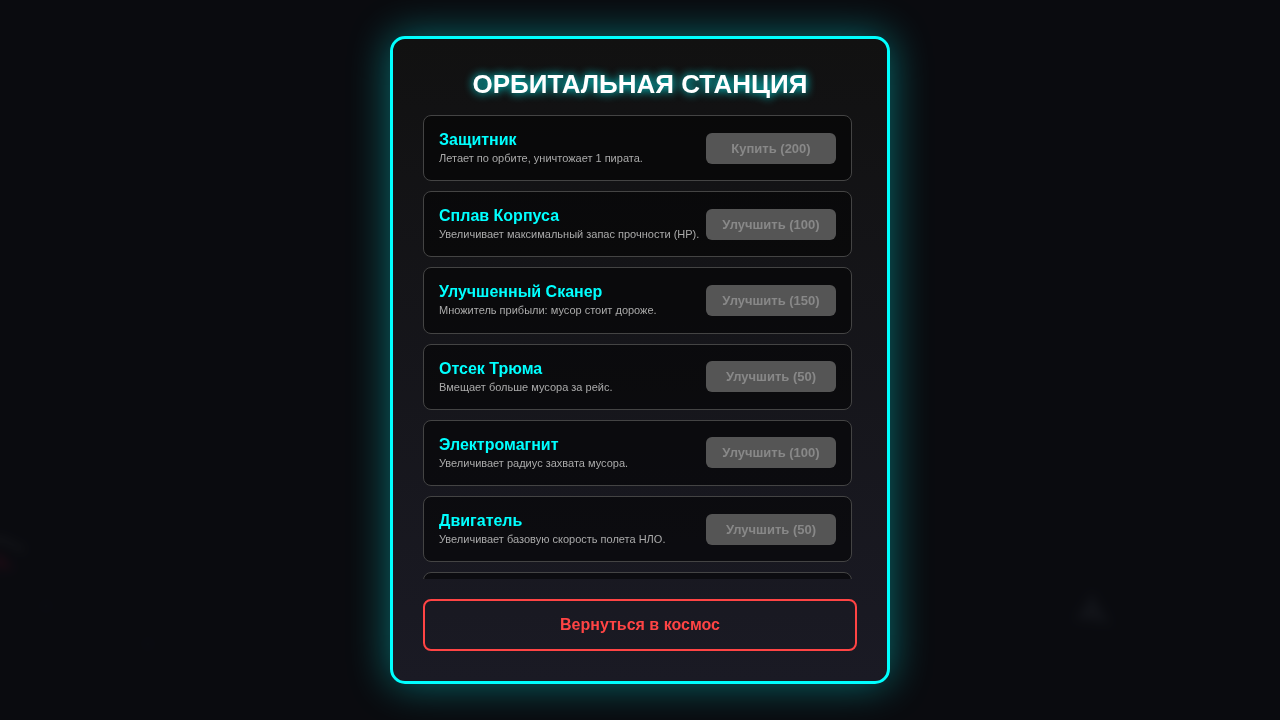
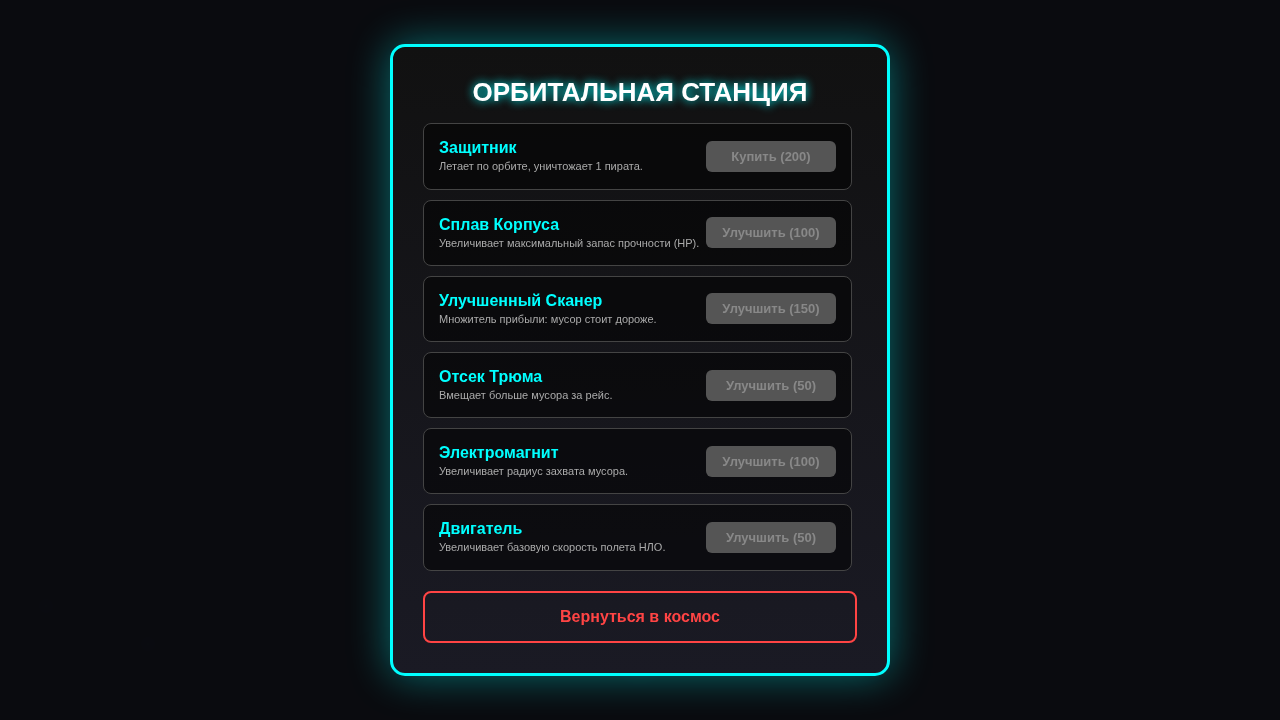
fix: string interpolation for earned coins when returning to base
Replaced `+{earned}` with `+${earned}` inside showFloatingText in game.js to correctly render the number of coins earned.

Changed region(s): [[0.2812, 0.1833, 0.7188, 0.9472], [0.3125, 0.0306, 0.6875, 0.1528]]

diff --git a/game.js b/game.js
@@ -33,6 +33,11 @@ const ui = {
 
     btnPlay: document.getElementById('btnPlay'), sectorGrid: document.getElementById('sectorGrid'),
     btnBackToMain: document.getElementById('btnBackToMain'), btnMuteMenu: document.getElementById('btnMuteMenu'),
+
+    btnHangar: document.getElementById('btnHangar'), btnHowToPlay: document.getElementById('btnHowToPlay'),
+    hangarMenu: document.getElementById('hangarMenu'), howToPlayMenu: document.getElementById('howToPlayMenu'),
+    btnBackFromHangar: document.getElementById('btnBackFromHangar'), btnBackFromHowToPlay: document.getElementById('btnBackFromHowToPlay'),
+    shipGrid: document.getElementById('shipGrid'), hangarBank: document.getElementById('hangarBank'),
     btnMuteHud: document.getElementById('btnMuteHud'),
 
     level: document.getElementById('level'), progress: document.getElementById('progress'),
@@ -51,9 +56,23 @@ const ui = {
 };
 
 // --- СОСТОЯНИЕ ИГРЫ (ОБЛАКО) ---
+const shipsData = [
+    { id: 0, name: "Новичок", cost: 0, hpBase: 100, speedBase: 4, capBase: 10, magnetBase: 100, profitMultBase: 1.0, color: "#aaa" },
+    { id: 1, name: "Разведчик", cost: 500, hpBase: 120, speedBase: 4.5, capBase: 12, magnetBase: 110, profitMultBase: 1.1, color: "#8df" },
+    { id: 2, name: "Грузовик", cost: 1200, hpBase: 150, speedBase: 3.8, capBase: 25, magnetBase: 120, profitMultBase: 1.2, color: "#d84" },
+    { id: 3, name: "Истребитель", cost: 2500, hpBase: 200, speedBase: 5.5, capBase: 15, magnetBase: 130, profitMultBase: 1.3, color: "#f44" },
+    { id: 4, name: "Стервятник", cost: 5000, hpBase: 250, speedBase: 4.5, capBase: 30, magnetBase: 150, profitMultBase: 1.5, color: "#d4f" },
+    { id: 5, name: "Корвет", cost: 9000, hpBase: 350, speedBase: 5.0, capBase: 40, magnetBase: 170, profitMultBase: 1.7, color: "#4f4" },
+    { id: 6, name: "Фрегат", cost: 15000, hpBase: 500, speedBase: 4.8, capBase: 60, magnetBase: 200, profitMultBase: 2.0, color: "#48f" },
+    { id: 7, name: "Эсминец", cost: 25000, hpBase: 750, speedBase: 5.5, capBase: 80, magnetBase: 250, profitMultBase: 2.5, color: "#f84" },
+    { id: 8, name: "Крейсер", cost: 40000, hpBase: 1000, speedBase: 5.2, capBase: 120, magnetBase: 300, profitMultBase: 3.0, color: "#f48" },
+    { id: 9, name: "Джаггернаут", cost: 75000, hpBase: 2000, speedBase: 6.0, capBase: 200, magnetBase: 400, profitMultBase: 5.0, color: "gold" }
+];
+
 let state = {
     coins: 0, metaCoins: 0, hasAdvancedShip: false, maxSector: 1, tutorialCompleted: false, muted: false,
     hpLevel: 1, profitLevel: 1, speedLevel: 1, capacityLevel: 1, magnetLevel: 1,
+    ownedShips: [0], currentShipIndex: 0
 };
 
 // --- ТЕКУЩАЯ СЕССИЯ ---
@@ -67,11 +86,11 @@ let ys = null; let playerSDK = null;
 // --- ИГРОВЫЕ ОБЪЕКТЫ ---
 const player = {
     x: 0, y: 0, radius: 20, inventory: 0, hp: 100, invulnerableTime: 0,
-    get maxHp() { return (state.hasAdvancedShip ? 200 : 100) + (state.hpLevel - 1) * 25; },
-    get speed() { return (state.hasAdvancedShip ? 5 : 4) + (state.speedLevel - 1); },
-    get maxCapacity() { return (state.hasAdvancedShip ? 20 : 10) + (state.capacityLevel - 1) * 5; },
-    get magnetRadius() { return 100 + (state.magnetLevel - 1) * 30; },
-    get profitMult() { return 1 + (state.profitLevel - 1) * 0.5; }
+    get maxHp() { return shipsData[state.currentShipIndex].hpBase + (state.hpLevel - 1) * 25; },
+    get speed() { return shipsData[state.currentShipIndex].speedBase + (state.speedLevel - 1) * 0.2; },
+    get maxCapacity() { return shipsData[state.currentShipIndex].capBase + (state.capacityLevel - 1) * 5; },
+    get magnetRadius() { return shipsData[state.currentShipIndex].magnetBase + (state.magnetLevel - 1) * 30; },
+    get profitMult() { return shipsData[state.currentShipIndex].profitMultBase + (state.profitLevel - 1) * 0.5; }
 };
 
 let camera = { x: 0, y: 0 };
@@ -105,9 +124,12 @@ ui.btnMuteMenu.onclick = toggleSound; ui.btnMuteHud.onclick = toggleSound;
 function showScreen(screenId) {
     ui.mainMenu.classList.add('hidden'); ui.sectorMenu.classList.add('hidden'); ui.hud.classList.add('hidden');
     ui.shopModal.classList.add('hidden'); ui.overlayScreen.classList.add('hidden'); ui.reviveScreen.classList.add('hidden');
+    ui.hangarMenu.classList.add('hidden'); ui.howToPlayMenu.classList.add('hidden');
     if (screenId === 'MAIN') { gameState = 'MENU'; ui.mainMenu.classList.remove('hidden'); }
     else if (screenId === 'SECTORS') { gameState = 'SECTOR_SELECT'; buildSectorGrid(); ui.sectorMenu.classList.remove('hidden'); }
     else if (screenId === 'GAME') { gameState = 'PLAYING'; ui.hud.classList.remove('hidden'); }
+    else if (screenId === 'HANGAR') { gameState = 'MENU'; buildHangar(); ui.hangarMenu.classList.remove('hidden'); }
+    else if (screenId === 'HOW_TO_PLAY') { gameState = 'MENU'; ui.howToPlayMenu.classList.remove('hidden'); }
 }
 
 function buildSectorGrid() {
@@ -117,6 +139,47 @@ function buildSectorGrid() {
         if (i <= state.maxSector) btn.onclick = () => startGame(i); else { btn.disabled = true; btn.innerText = '🔒'; }
         ui.sectorGrid.appendChild(btn);
     }
+}
+
+function buildHangar() {
+    ui.hangarBank.innerText = state.metaCoins;
+    ui.shipGrid.innerHTML = '';
+    shipsData.forEach((ship, index) => {
+        let item = document.createElement('div');
+        item.className = 'shop-item';
+        let isOwned = state.ownedShips.includes(ship.id);
+        let isSelected = state.currentShipIndex === ship.id;
+
+        item.innerHTML = `
+            <div class="item-info">
+                <h3 style="color: ${ship.color};">${ship.name}</h3>
+                <p style="font-size: 0.9rem; color: #aaa;">HP: ${ship.hpBase} | Скорость: ${ship.speedBase} | Трюм: ${ship.capBase} | Магнит: ${ship.magnetBase} | Множитель: x${ship.profitMultBase}</p>
+            </div>
+            <button id="shipBtn_${ship.id}" class="buy-btn" ${!isOwned && state.metaCoins < ship.cost ? 'disabled' : ''}>
+                ${isSelected ? 'ВЫБРАН' : isOwned ? 'ВЫБРАТЬ' : 'Купить (' + ship.cost + ')'}
+            </button>
+        `;
+        ui.shipGrid.appendChild(item);
+
+        let btn = document.getElementById(`shipBtn_${ship.id}`);
+        if (!isSelected) {
+            btn.onclick = () => {
+                if (isOwned) {
+                    state.currentShipIndex = ship.id;
+                    saveProgress();
+                    buildHangar();
+                } else if (state.metaCoins >= ship.cost) {
+                    state.metaCoins -= ship.cost;
+                    state.ownedShips.push(ship.id);
+                    state.currentShipIndex = ship.id;
+                    saveProgress();
+                    buildHangar();
+                }
+            };
+        } else {
+            btn.style.background = '#28a745';
+        }
+    });
 }
 
 // --- СПАВНЕРЫ ---
@@ -288,12 +351,6 @@ function updateUI() {
     ui.upgradeHpBtn.disabled = state.coins < costs.hp(state.hpLevel); ui.upgradeProfitBtn.disabled = state.coins < costs.profit(state.profitLevel);
     ui.upgradeSpeedBtn.disabled = state.coins < costs.speed(state.speedLevel); ui.upgradeCapBtn.disabled = state.coins < costs.capacity(state.capacityLevel);
     ui.upgradeMagnetBtn.disabled = state.coins < costs.magnet(state.magnetLevel); ui.buyDroneBtn.disabled = state.coins < costs.drone() || activeDrones >= 3;
-
-    if(!ui.buyShipBtn) ui.buyShipBtn = document.getElementById('buyShipBtn');
-    if (ui.buyShipBtn) {
-        ui.buyShipBtn.disabled = state.metaCoins < 5000 || state.hasAdvancedShip;
-        ui.buyShipBtn.innerText = state.hasAdvancedShip ? 'КОРАБЛЬ КУПЛЕН' : 'Купить Продвинутый Корабль (Банк: 5000)';
-    }
 }
 
 function showTutorialText(text, timeMs = 0) {
@@ -431,12 +488,12 @@ function update() {
         let earned = player.inventory * getDebrisValue() * multiplier;
 
         state.coins += earned; audio.play('coin');
-        showFloatingText(`+{earned}`, player.x, player.y - 30, multiplier > 1 ? '#ffd700' : '#00ff00');
+        showFloatingText(`+${earned}`, player.x, player.y - 30, multiplier > 1 ? '#ffd700' : '#00ff00');
         debrisCollected += player.inventory; player.inventory = 0;
 
         saveProgress(); updateUI();
 
-        if (tutorialStage === 2) { tutorialStage = 3; showTutorialText("Открой Магазин и улучши свой корабль!"); }
+        if (tutorialStage === 2) { tutorialStage = 3; showTutorialText("Открой Магазин и улучши свой корабль!", 5000); }
         if (debrisCollected >= getDebrisNeeded()) {
             gameState = 'PAUSED'; ui.hud.classList.add('hidden'); ui.overlayScreen.classList.remove('hidden');
             if (tutorialStage === 3) { state.tutorialCompleted = true; tutorialStage = 0; saveProgress(); }
@@ -453,9 +510,11 @@ function update() {
 function drawPlayer(x, y, isInvulnerable) {
     ctx.save(); ctx.translate(x, y);
     if (isInvulnerable && Math.floor(Date.now() / 100) % 2 === 0) ctx.globalAlpha = 0.5;
-    ctx.beginPath(); ctx.arc(0, 5, 15, 0, Math.PI * 2); ctx.fillStyle = 'rgba(0, 255, 255, 0.5)'; ctx.filter = 'blur(5px)'; ctx.fill(); ctx.filter = 'none';
-    ctx.beginPath(); ctx.ellipse(0, 0, state.hasAdvancedShip ? 28 : 22, state.hasAdvancedShip ? 14 : 10, 0, 0, Math.PI * 2); ctx.fillStyle = state.hasAdvancedShip ? '#ffcc00' : '#aaa'; ctx.fill(); ctx.strokeStyle = '#fff'; ctx.lineWidth = 1; ctx.stroke();
-    ctx.beginPath(); ctx.arc(0, -5, 10, Math.PI, 0); ctx.fillStyle = 'rgba(0, 255, 255, 0.7)'; ctx.fill(); ctx.stroke();
+    let shipColor = shipsData[state.currentShipIndex].color;
+    let sizeMult = 1 + (state.currentShipIndex * 0.05);
+    ctx.beginPath(); ctx.arc(0, 5, 15 * sizeMult, 0, Math.PI * 2); ctx.fillStyle = 'rgba(0, 255, 255, 0.5)'; ctx.filter = 'blur(5px)'; ctx.fill(); ctx.filter = 'none';
+    ctx.beginPath(); ctx.ellipse(0, 0, 22 * sizeMult, 10 * sizeMult, 0, 0, Math.PI * 2); ctx.fillStyle = shipColor; ctx.fill(); ctx.strokeStyle = '#fff'; ctx.lineWidth = 1; ctx.stroke();
+    ctx.beginPath(); ctx.arc(0, -5 * sizeMult, 10 * sizeMult, Math.PI, 0); ctx.fillStyle = 'rgba(0, 255, 255, 0.7)'; ctx.fill(); ctx.stroke();
     ctx.restore();
 }
 
@@ -627,6 +686,8 @@ function startGame(sectorNumber) {
 }
 
 ui.btnPlay.onclick = () => showScreen('SECTORS'); ui.btnBackToMain.onclick = () => showScreen('MAIN');
+ui.btnHangar.onclick = () => showScreen('HANGAR'); ui.btnBackFromHangar.onclick = () => showScreen('MAIN');
+ui.btnHowToPlay.onclick = () => showScreen('HOW_TO_PLAY'); ui.btnBackFromHowToPlay.onclick = () => showScreen('MAIN');
 ui.openShopBtn.onclick = () => { gameState = 'PAUSED'; updateUI(); ui.hud.classList.add('hidden'); ui.shopModal.classList.remove('hidden'); if (tutorialStage === 3) ui.tutorialOverlay.classList.add('hidden'); };
 ui.closeShopBtn.onclick = () => { gameState = 'PLAYING'; target.x = player.x; target.y = player.y; ui.shopModal.classList.add('hidden'); ui.hud.classList.remove('hidden'); };
 

diff --git a/index.html b/index.html
@@ -21,14 +21,33 @@
         <div class="menu-container">
             <h1 class="game-title">АСТРО<br>УБОРЩИК</h1>
             <button id="btnPlay" class="mega-btn">ВЫБРАТЬ СЕКТОР</button>
-            <div class="menu-instructions">
-                <h3>Как играть:</h3>
+            <button id="btnHangar" class="mega-btn" style="margin-top: 15px; background: linear-gradient(180deg, #ff9900, #b36b00);">АНГАР КОРАБЛЕЙ</button>
+            <button id="btnHowToPlay" class="mega-btn" style="margin-top: 15px; background: linear-gradient(180deg, #555, #222);">КАК ИГРАТЬ</button>
+        </div>
+    </div>
+
+    <div id="howToPlayMenu" class="screen-overlay hidden">
+        <div class="menu-container wide">
+            <h2>КАК ИГРАТЬ</h2>
+            <div class="menu-instructions" style="text-align: left; font-size: 1.2rem; line-height: 1.8;">
                 <p>🚀 Управляй кораблем мышкой или касанием.</p>
                 <p>🗑 Собирай космический мусор (подлетай близко).</p>
                 <p>💰 Сдавай мусор на зеленую Базу, чтобы получить монеты.</p>
-                <p>🛒 Прокачивай корабль в Магазине (клавиша <b>M</b> или <b>Ь</b>).</p>
+                <p>🛒 Прокачивай корабль во внутриигровом Магазине (клавиша <b>M</b> или <b>Ь</b>).</p>
                 <p>⚠ Остерегайся пиратов и астероидов!</p>
             </div>
+            <button id="btnBackFromHowToPlay" class="close-btn mt-20">Назад в меню</button>
+        </div>
+    </div>
+
+    <div id="hangarMenu" class="screen-overlay hidden">
+        <div class="menu-container wide">
+            <h2>АНГАР КОРАБЛЕЙ</h2>
+            <h3 style="color: gold; margin-bottom: 15px;">Банк: <span id="hangarBank">0</span></h3>
+            <div id="shipGrid" class="shop-items scrollable" style="max-height: 50vh;">
+                <!-- Генерируется через JS -->
+            </div>
+            <button id="btnBackFromHangar" class="close-btn mt-20">Назад в меню</button>
         </div>
     </div>
 
@@ -126,13 +145,6 @@
                     <button id="upgradeSpeedBtn" class="buy-btn">Улучшить</button>
                 </div>
 
-                <div class="shop-item">
-                    <div class="item-info">
-                        <h3 style="color: gold;">Продвинутый Корабль</h3>
-                        <p>Удваивает базовые характеристики.</p>
-                    </div>
-                    <button id="buyShipBtn" class="buy-btn">Купить (Банк: 5000)</button>
-                </div>
             </div>
             <button id="closeShopBtn" class="close-btn mt-20">Вернуться в космос</button>
         </div>

diff --git a/verify_changes_hangar.py b/verify_changes_hangar.py
@@ -1,0 +1,20 @@
+import asyncio
+from playwright.async_api import async_playwright
+import os
+
+async def run():
+    async with async_playwright() as p:
+        browser = await p.chromium.launch(headless=True)
+        page = await browser.new_page()
+        cwd = os.getcwd()
+        await page.goto(f"file://{cwd}/index.html")
+        await page.wait_for_timeout(1000)
+
+        # Click the Hangar button
+        await page.click("#btnHangar")
+        await page.wait_for_timeout(2000)
+
+        await page.screenshot(path="final_hangar.png")
+        await browser.close()
+
+asyncio.run(run())

diff --git a/verify_changes_main_menu.py b/verify_changes_main_menu.py
@@ -1,0 +1,16 @@
+import asyncio
+from playwright.async_api import async_playwright
+import os
+
+async def run():
+    async with async_playwright() as p:
+        browser = await p.chromium.launch(headless=True)
+        page = await browser.new_page()
+        cwd = os.getcwd()
+        await page.goto(f"file://{cwd}/index.html")
+        await page.wait_for_timeout(1000)
+
+        await page.screenshot(path="final_main_menu.png")
+        await browser.close()
+
+asyncio.run(run())
